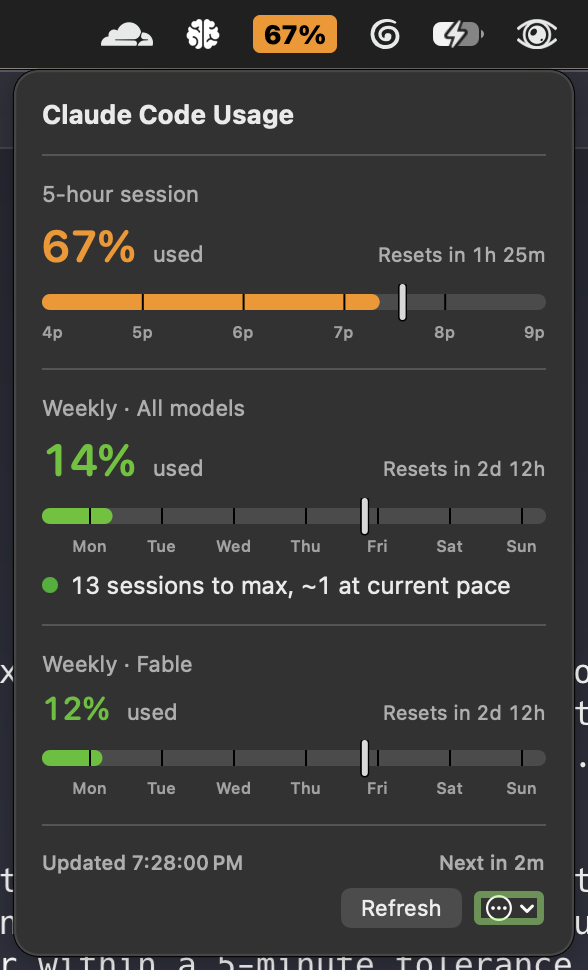
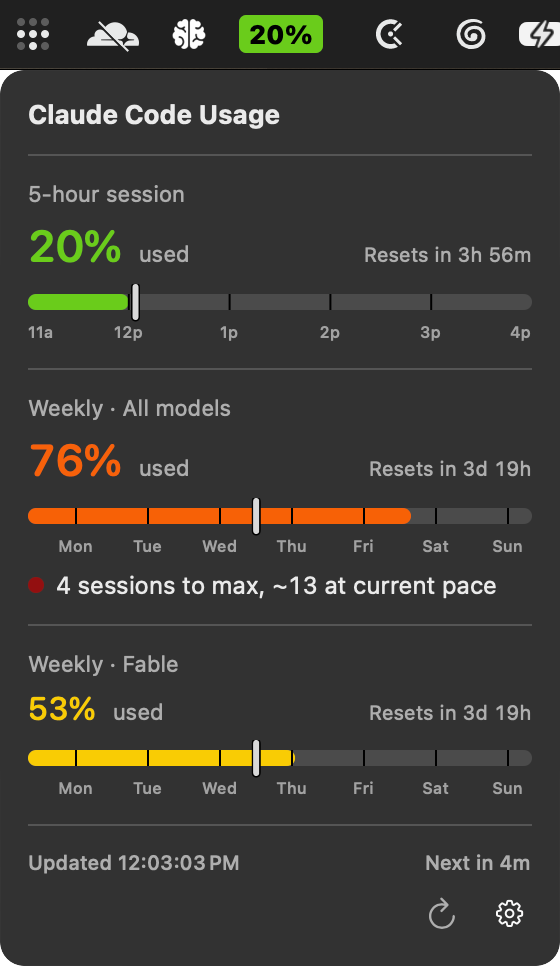
docs: recapture Tahoe screenshots with the redesigned footer
Light/Dark pair now shows the two-icon Refresh + gear footer (no green focus ring), captured with Peekaboo by window ID + composited menu-bar strip — clean edges, no desktop bleed. Sonoma pair still stale (needs a Sonoma/Sequoia machine).

diff --git a/README.md b/README.md
@@ -4,7 +4,7 @@ A tiny macOS menubar app that shows how much Claude Code session quota you have
 left, color-coded.
 
 The popover adapts to your macOS version's window styling. On **macOS Tahoe (26)
-and later**:
+and later** (current — the two-icon Refresh + gear footer):
 
 <p>
   <img width="300" alt="Claude Code Usage popover — light mode, macOS Tahoe" src="docs/Light.png" />
